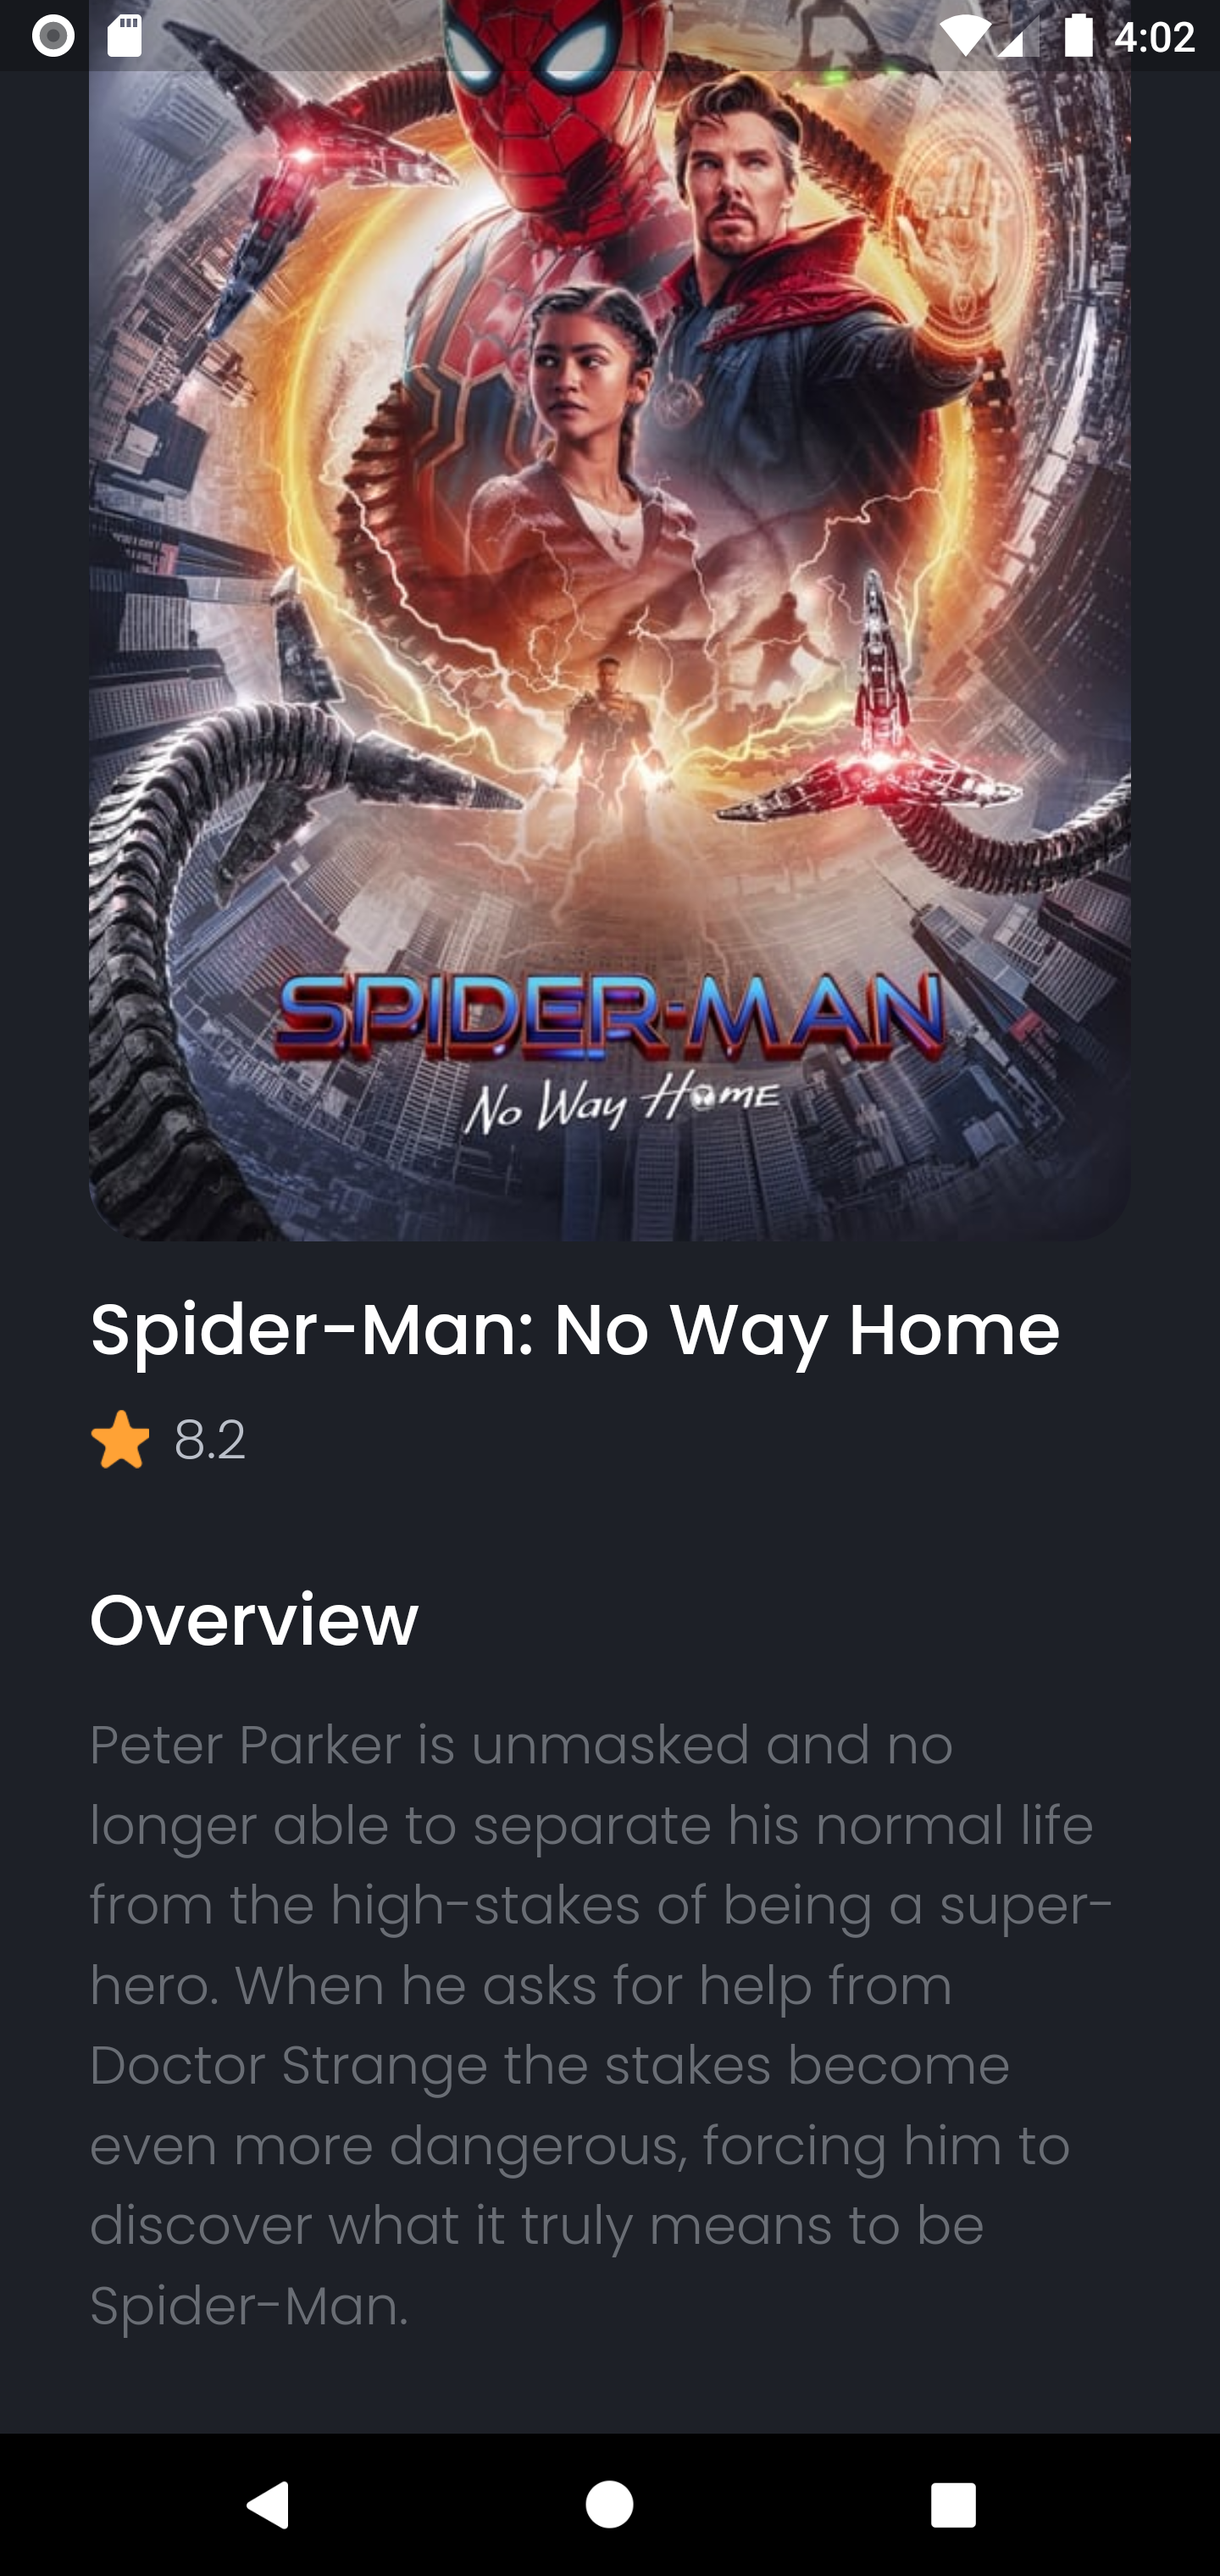
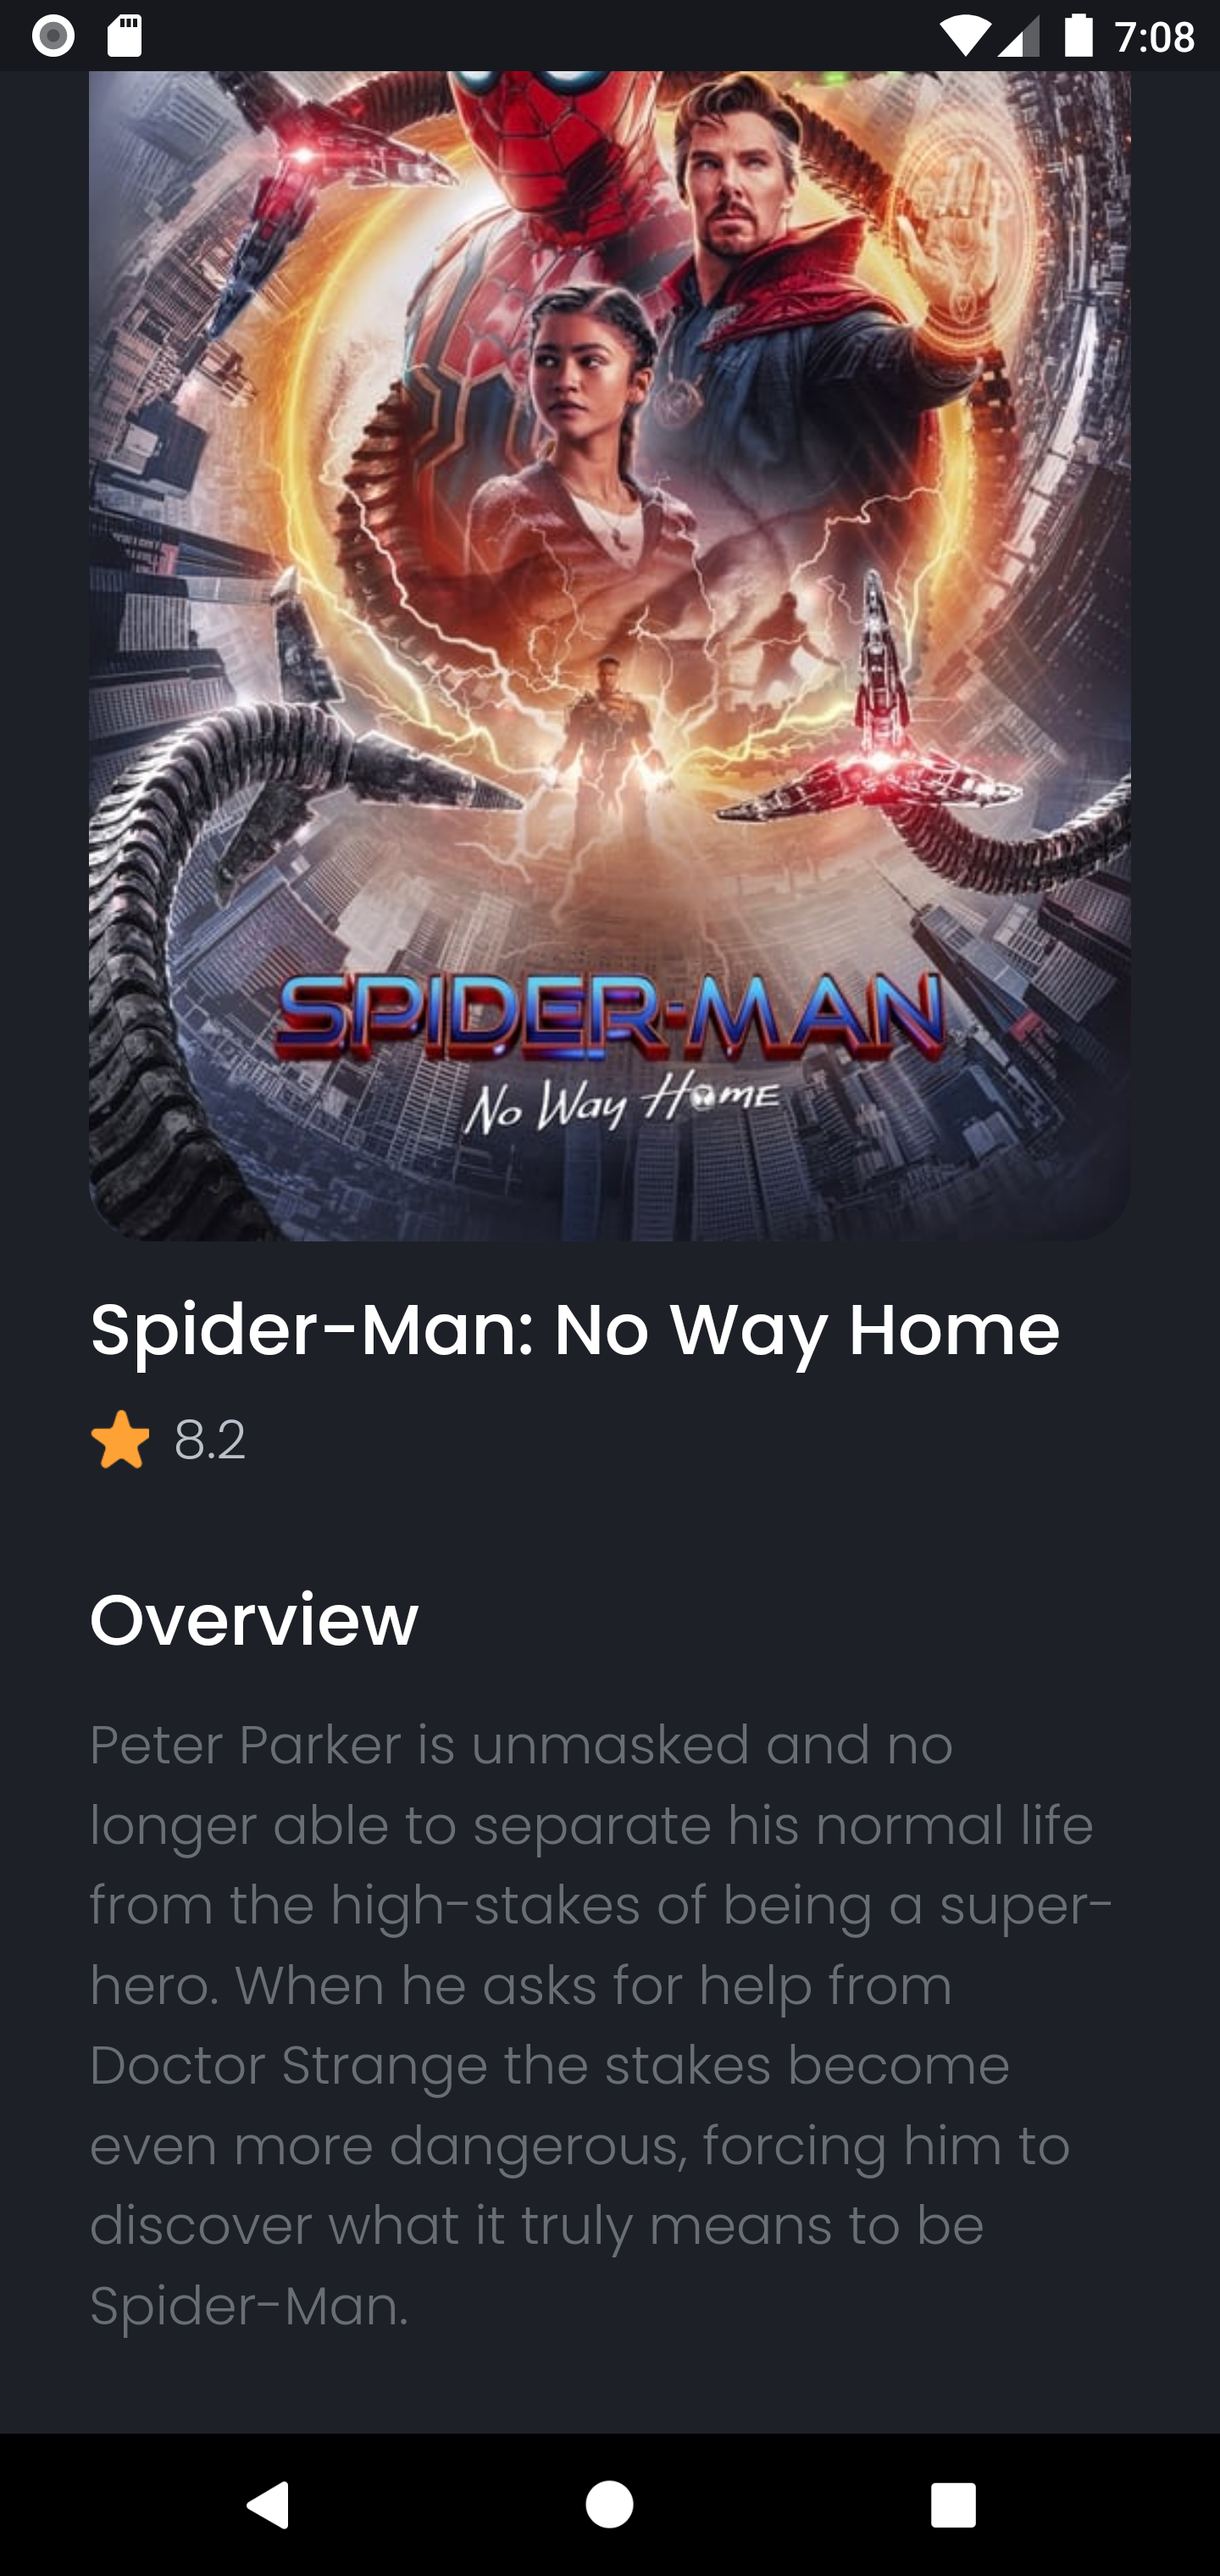
Fix problem & Update image

Changed region(s): [[0.0625, 0.0, 0.9375, 0.0312]]

diff --git a/lib/pages/modification/movie_detail.dart b/lib/pages/modification/movie_detail.dart
@@ -1,3 +1,5 @@
+// ignore_for_file: unnecessary_null_comparison
+
 import 'package:flutter/material.dart';
 import 'package:flutter_movie_app/models/movie.dart';
 
@@ -20,107 +22,109 @@ class MovieDetail extends StatelessWidget {
 
     return Scaffold(
       backgroundColor: const Color(0xff1D2027),
-      body: SingleChildScrollView(
-        child: Padding(
-          padding: const EdgeInsets.all(30),
-          child: Column(
-            crossAxisAlignment: CrossAxisAlignment.start,
-            children: [
-              Row(
-                mainAxisAlignment: MainAxisAlignment.spaceBetween,
-                children: [
-                  GestureDetector(
-                    onTap: () {
-                      Navigator.pop(context);
-                    },
-                    child: const Icon(
-                      Icons.arrow_back,
-                      color: Colors.white,
+      body: SafeArea(
+        child: SingleChildScrollView(
+          child: Padding(
+            padding: const EdgeInsets.all(30),
+            child: Column(
+              crossAxisAlignment: CrossAxisAlignment.start,
+              children: [
+                Row(
+                  mainAxisAlignment: MainAxisAlignment.spaceBetween,
+                  children: [
+                    GestureDetector(
+                      onTap: () {
+                        Navigator.pop(context);
+                      },
+                      child: const Icon(
+                        Icons.arrow_back,
+                        color: Colors.white,
+                      ),
                     ),
-                  ),
-                  const Text(
-                    'Details Movie',
-                    style: TextStyle(
-                      fontFamily: 'Poppins',
-                      fontSize: 22,
-                      fontWeight: FontWeight.w500,
-                      color: Colors.white,
+                    const Text(
+                      'Details Movie',
+                      style: TextStyle(
+                        fontFamily: 'Poppins',
+                        fontSize: 22,
+                        fontWeight: FontWeight.w500,
+                        color: Colors.white,
+                      ),
                     ),
-                  ),
-                  const Text(''),
-                ],
-              ),
-              const SizedBox(height: 30),
-              Container(
-                width: double.infinity,
-                height: 530,
-                decoration: BoxDecoration(
-                  borderRadius: BorderRadius.circular(20),
-                  image: DecorationImage(
-                    image: NetworkImage(
-                      path,
+                    const Text(''),
+                  ],
+                ),
+                const SizedBox(height: 30),
+                Container(
+                  width: double.infinity,
+                  height: 530,
+                  decoration: BoxDecoration(
+                    borderRadius: BorderRadius.circular(20),
+                    image: DecorationImage(
+                      image: NetworkImage(
+                        path,
+                      ),
+                      fit: BoxFit.cover,
                     ),
-                    fit: BoxFit.cover,
                   ),
                 ),
-              ),
-              const SizedBox(height: 12),
-              Column(
-                crossAxisAlignment: CrossAxisAlignment.start,
-                children: [
-                  Text(
-                    movie.title,
-                    style: const TextStyle(
-                      fontFamily: 'Poppins',
-                      fontSize: 24,
-                      fontWeight: FontWeight.w500,
-                      color: Colors.white,
-                    ),
-                  ),
-                  const SizedBox(height: 5),
-                  Row(
-                    children: [
-                      Image.asset('assets/images/star.png', height: 20),
-                      const SizedBox(width: 8),
-                      Text(
-                        movie.voteAverage.toString(),
-                        style: const TextStyle(
-                          fontFamily: 'Poppins',
-                          fontSize: 18,
-                          fontWeight: FontWeight.w300,
-                          color: Color(0xffBABFC9),
-                        ),
+                const SizedBox(height: 12),
+                Column(
+                  crossAxisAlignment: CrossAxisAlignment.start,
+                  children: [
+                    Text(
+                      movie.title,
+                      style: const TextStyle(
+                        fontFamily: 'Poppins',
+                        fontSize: 24,
+                        fontWeight: FontWeight.w500,
+                        color: Colors.white,
                       ),
-                    ],
-                  ),
-                ],
-              ),
-              const SizedBox(height: 30),
-              Column(
-                crossAxisAlignment: CrossAxisAlignment.start,
-                children: [
-                  const Text(
-                    'Overview',
-                    style: TextStyle(
-                      fontFamily: 'Poppins',
-                      fontSize: 24,
-                      fontWeight: FontWeight.w500,
-                      color: Colors.white,
                     ),
-                  ),
-                  const SizedBox(height: 10),
-                  Text(
-                    movie.overview,
-                    style: const TextStyle(
-                      fontFamily: 'Poppins',
-                      fontSize: 18,
-                      fontWeight: FontWeight.w300,
-                      color: Color(0xff696D74),
+                    const SizedBox(height: 5),
+                    Row(
+                      children: [
+                        Image.asset('assets/images/star.png', height: 20),
+                        const SizedBox(width: 8),
+                        Text(
+                          movie.voteAverage.toString(),
+                          style: const TextStyle(
+                            fontFamily: 'Poppins',
+                            fontSize: 18,
+                            fontWeight: FontWeight.w300,
+                            color: Color(0xffBABFC9),
+                          ),
+                        ),
+                      ],
                     ),
-                  ),
-                ],
-              ),
-            ],
+                  ],
+                ),
+                const SizedBox(height: 30),
+                Column(
+                  crossAxisAlignment: CrossAxisAlignment.start,
+                  children: [
+                    const Text(
+                      'Overview',
+                      style: TextStyle(
+                        fontFamily: 'Poppins',
+                        fontSize: 24,
+                        fontWeight: FontWeight.w500,
+                        color: Colors.white,
+                      ),
+                    ),
+                    const SizedBox(height: 10),
+                    Text(
+                      movie.overview,
+                      style: const TextStyle(
+                        fontFamily: 'Poppins',
+                        fontSize: 18,
+                        fontWeight: FontWeight.w300,
+                        color: Color(0xff696D74),
+                      ),
+                    ),
+                  ],
+                ),
+              ],
+            ),
           ),
         ),
       ),

diff --git a/lib/pages/movie_detail.dart b/lib/pages/movie_detail.dart
@@ -1,3 +1,5 @@
+// ignore_for_file: unnecessary_null_comparison
+
 import 'package:flutter/material.dart';
 import 'package:flutter_movie_app/models/movie.dart';
 
